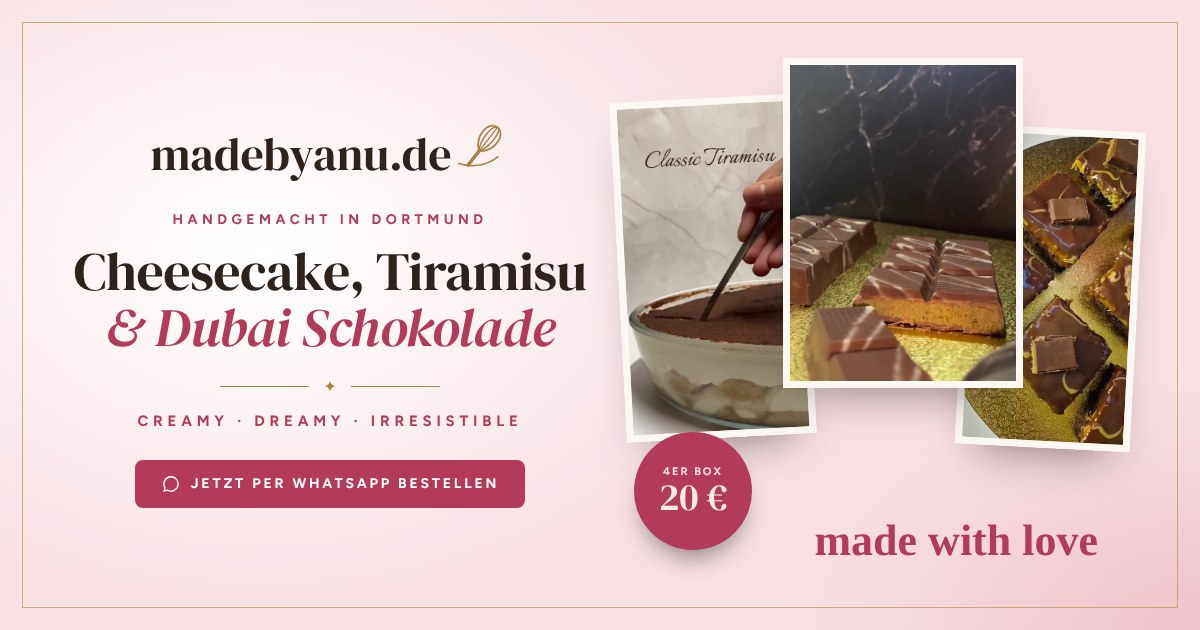
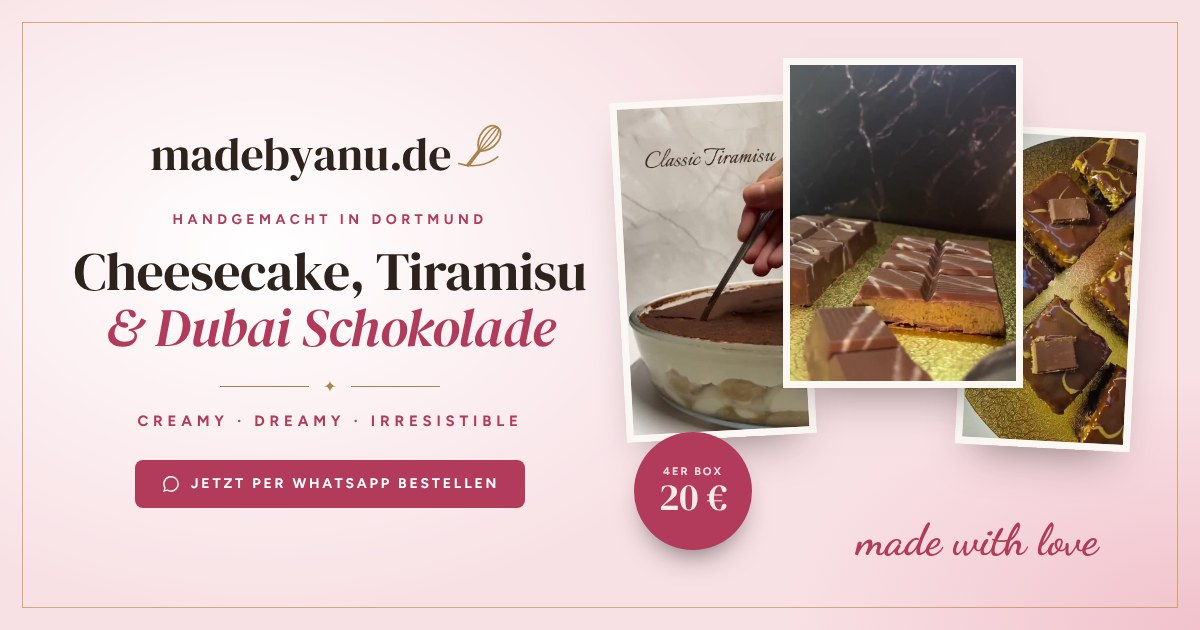
Vorschaubild: Schreibschrift korrigiert
Claude-Session: https://claude.ai/code/session_01GiNGfLLrHYoBDvBcmBi6ve

Changed region(s): [[0.6783, 0.8143, 0.925, 0.9048]]

diff --git a/tools/og-image.html b/tools/og-image.html
@@ -9,7 +9,7 @@
   @font-face { font-family: "DM Serif Display"; src: url("../assets/fonts/dm-serif-display.woff2") format("woff2"); }
   @font-face { font-family: "DM Serif Display"; src: url("../assets/fonts/dm-serif-display-italic.woff2") format("woff2"); font-style: italic; }
   @font-face { font-family: "Figtree"; src: url("../assets/fonts/figtree-latin-wght-normal.woff2") format("woff2"); font-weight: 300 900; }
-  @font-face { font-family: "Pinyon Script"; src: url("../assets/fonts/pinyon-script.woff2") format("woff2"); }
+  @font-face { font-family: "Dancing Script"; src: url("../assets/fonts/dancing-script.woff2") format("woff2"); font-weight: 400 700; }
   * { box-sizing: border-box; margin: 0; }
   html, body { width: 1200px; height: 630px; overflow: hidden; }
   body { background: #f8e1e5; color: #2e221d; font-family: "Figtree", sans-serif; position: relative; }
